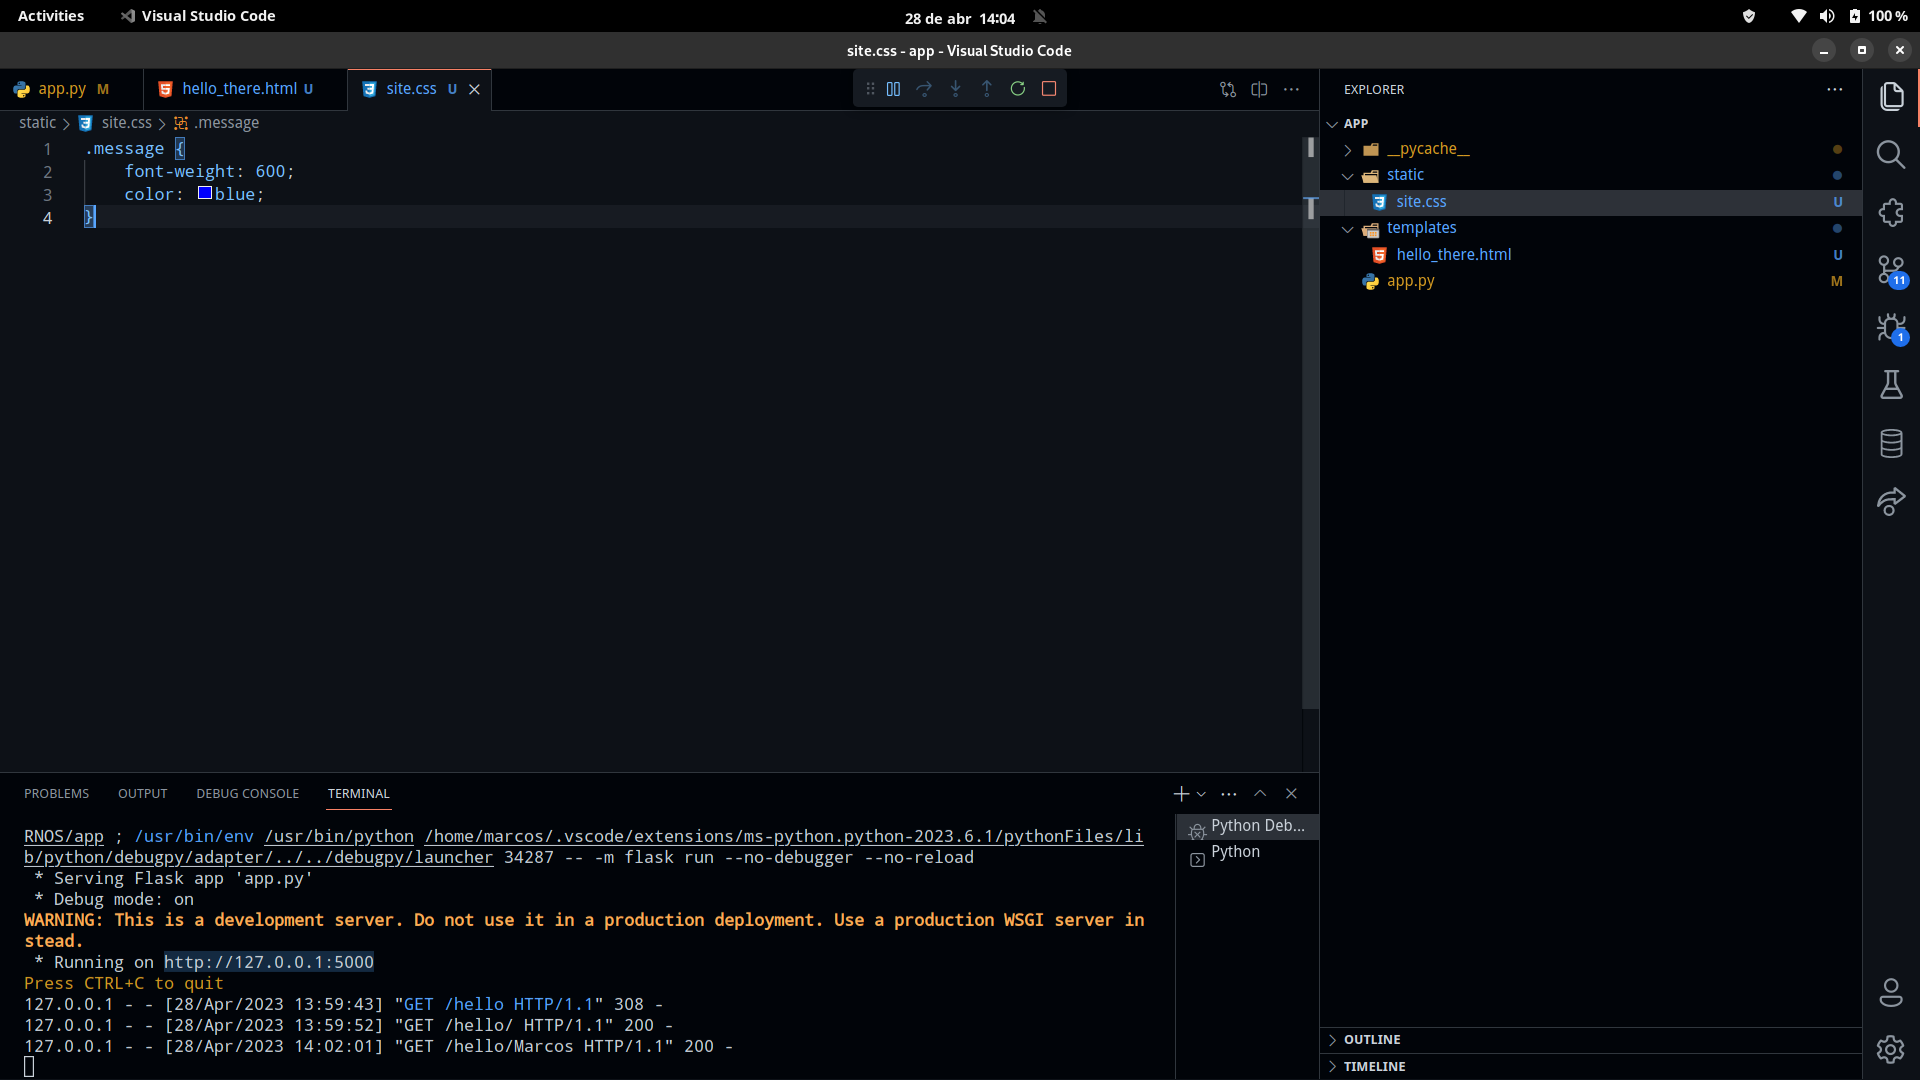
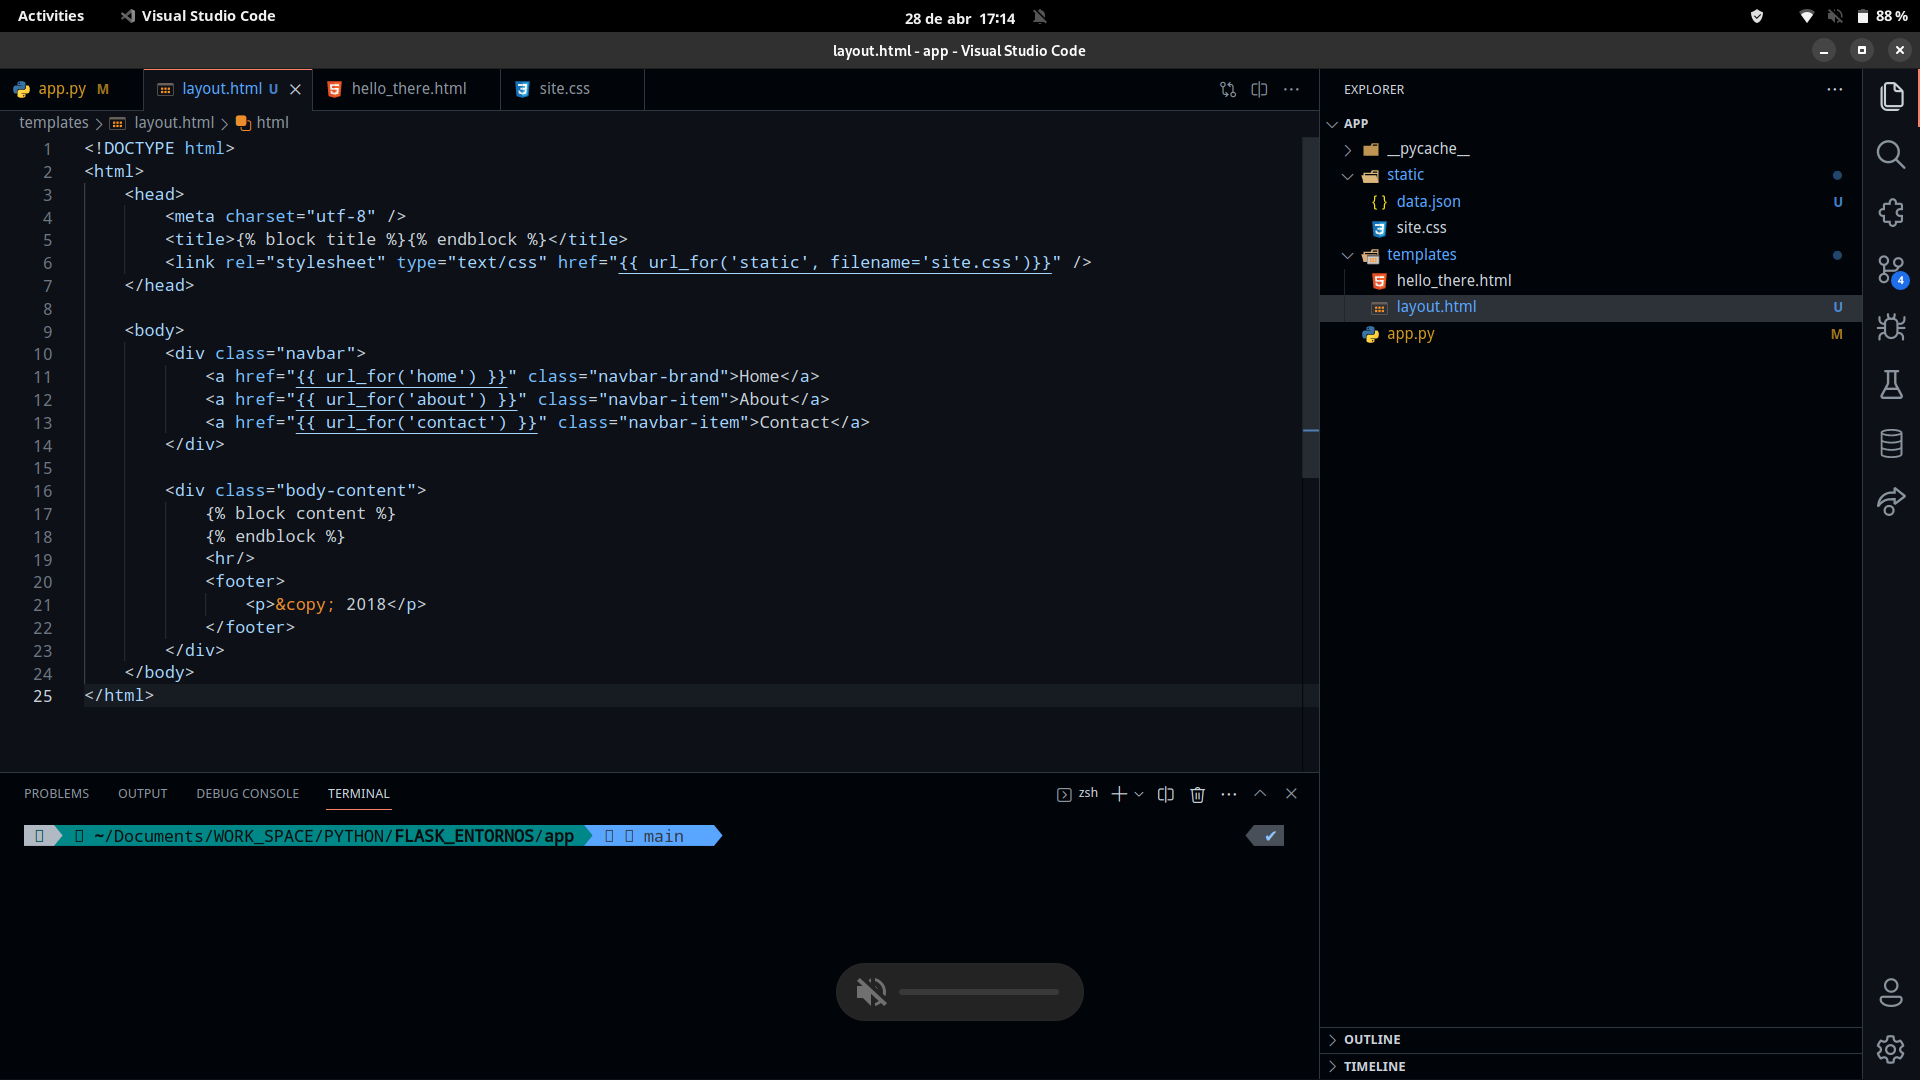
Fin

diff --git a/app/templates/layout.html b/app/templates/layout.html
@@ -1,0 +1,25 @@
+<!DOCTYPE html>
+<html>
+    <head>
+        <meta charset="utf-8" />
+        <title>{% block title %}{% endblock %}</title>
+        <link rel="stylesheet" type="text/css" href="{{ url_for('static', filename='site.css')}}" />
+    </head>
+
+    <body>
+        <div class="navbar">
+            <a href="{{ url_for('home') }}" class="navbar-brand">Home</a>
+            <a href="{{ url_for('about') }}" class="navbar-item">About</a>
+            <a href="{{ url_for('contact') }}" class="navbar-item">Contact</a>
+        </div>
+
+        <div class="body-content">
+            {% block content %}
+            {% endblock %}
+            <hr/>
+            <footer>
+                <p>&copy; 2018</p>
+            </footer>
+        </div>
+    </body>
+</html>

diff --git a/app/static/site.css b/app/static/site.css
@@ -2,3 +2,30 @@
     font-weight: 600;
     color: blue;
 }
+.navbar {
+    background-color: lightslategray;
+    font-size: 1em;
+    font-family: 'Trebuchet MS', 'Lucida Sans Unicode', 'Lucida Grande', 'Lucida Sans', Arial, sans-serif;
+    color: white;
+    padding: 8px 5px 8px 5px;
+}
+
+.navbar a {
+    text-decoration: none;
+    color: inherit;
+}
+
+.navbar-brand {
+    font-size: 1.2em;
+    font-weight: 600;
+}
+
+.navbar-item {
+    font-variant: small-caps;
+    margin-left: 30px;
+}
+
+.body-content {
+    padding: 5px;
+    font-family:'Segoe UI', Tahoma, Geneva, Verdana, sans-serif;
+}

diff --git a/app/templates/home.html b/app/templates/home.html
@@ -1,0 +1,6 @@
+{% extends "layout.html" %}
+{% block title %}
+<p>Home page for the Visual Studio Code Flask tutorial.</p>
+{% endblock %}
+{% block content %}
+{% endblock %}

diff --git a/app/app.py b/app/app.py
@@ -8,7 +8,7 @@ app = Flask(__name__)
 
 @app.route("/")
 def home():
-    return "Hello, Flask!"
+    return render_template("home.html")
 
 
 @app.route("/hello/")
@@ -19,3 +19,17 @@ def hello_there(name = None):
         name=name,
         date=datetime.now()
     )
+
+@app.route("/api/data")
+def get_data():
+    return app.send_static_file("data.json")
+
+# New functions
+@app.route("/about/")
+def about():
+    return render_template("about.html")
+
+@app.route("/contact/")
+def contact():
+    return render_template("contact.html")
+

diff --git a/README.md b/README.md
@@ -2,13 +2,13 @@
 En el siguiente repositirio proporciono el codigo resultante de seguir fielmente el tutorial de flask facilitado  por Micrsoft en la web [tutorial-flask](https://code.visualstudio.com/docs/python/tutorial-flask) ademas como recurso para facilitar mi compresion acerca del tema he recurrido a un video del que os dejo el enlace [flask-video](https://www.youtube.com/watch?v=-1DmVCPB6H8)
 
 
-### Prepar entorno de trabajo:
+### Preparar entorno de trabajo:
 #### Pasos:
 1. Debemos crear un entorno , para ello debemos emplear env o conda. En este caso hemos empleado env.
-2. Debemos instalar los recursos necesarios para poder realizar el tutorial, pero el mas importante sera Flask .
-3. Debemos creaar una carpeta llamada app , sitio donde colocaremos nuestra app.
+2. Debemos instalar los recursos necesarios para poder realizar el tutorial, pero el más importante será Flask .
+3. Debemos crear una carpeta llamada app , sitio donde colocaremos nuestra app.
 4. Dentro de esta carpeta crearemos un archivo de igual nombre que el directorio.
-5. Tambien debemos crear un directorio cuyo nombre sera ```templates``` donde el motor generador de plantillas ```Jinja2``` podra encontrar las plantillas web cuya extension sea .html empleadas en nuestro proyecto.
+5. También debemos crear un directorio cuyo nombre será ```templates``` donde el motor generador de plantillas ```Jinja2``` podrá encontrar las plantillas web cuya extensión sea .html empleadas en nuestro proyecto.
 
 ### Asi deberia quedar inicialmente estructurado :
 
@@ -25,20 +25,20 @@ app = Flask(__name__)
 
 @app.route('/')
 def start ():
-    return 'Hola Mundo'
+   return 'Hola Mundo'
 
 ```
 
-Comenzamos importanto la clase Flask y la instanciamos en la variable app.
+Comenzamos importando la clase Flask y la instalamos en la variable app.
 
-Luego empleando el decorador ```@app.route('/')``` indicamos que esta sera nuestra ruta raiz y seguido creamos la vista que se ejecutara inicialmente.
+Luego empleando el decorador ```@app.route('/')``` indicamos que esta será nuestra ruta raíz y seguido creamos la vista que se ejecutará inicialmente.
 
-Es de suma importancia saber que todas las vistas serar declaradas como una funcion en python y deben tener un retorno,en este caso nuestro  hola mundo.
+Es de suma importancia saber que todas las vistas serán declaradas como una función en python y deben tener un retorno,en este caso nuestro  hola mundo.
 
 ```
 Para poder correr nuestra app, podemos emplear dos formas :
 1. python -m flask run
-2. La segunda opcion la veremos a continuacion
+2. La segunda opción la veremos a continuación
 ```
 
 ![](img_proceso/2.png)
@@ -47,7 +47,7 @@ Para poder correr nuestra app, podemos emplear dos formas :
 
 Podemos observar que ya tenemos nuestro hola mundo.
 
-### Rutas personalizadas 
+### Rutas personalizadas
 
 Con rutas personalizadas nos estamos refiriendo a que podemos modificar nuestras url,por ejemplo:
 
@@ -55,18 +55,18 @@ Con rutas personalizadas nos estamos refiriendo a que podemos modificar nuestras
 
 @app.route("/hello/<name>")
 def hello_there(name):
-    now = datetime.now()
-    formatted_now = now.strftime("%A, %d %B, %Y at %X")
+   now = datetime.now()
+   formatted_now = now.strftime("%A, %d %B, %Y at %X")
 
-    match_object = re.match("[a-zA-Z]+", name)
+   match_object = re.match("[a-zA-Z]+", name)
 
-    if match_object:
-        clean_name = match_object.group(0)
-    else:
-        clean_name = "Friend"
+   if match_object:
+       clean_name = match_object.group(0)
+   else:
+       clean_name = "Friend"
 
-    content = "Hello there, " + clean_name + "! It's " + formatted_now
-    return content
+   content = "Hello there, " + clean_name + "! It's " + formatted_now
+   return content
 ```
 Si ahora en nuestro navegador escribimos ``` http://127.0.0.1:5000/hello/Marcos```
 
@@ -75,57 +75,57 @@ Tendremos como resultado lo siguiente :
 Hello there, Marcos! It's Friday, 28 April, 2023 at 13:13:52
 ```
 
-Por tanto de esas forma podemos ver como podemo recibir variables via url.
+Por tanto de esta forma podemos ver cómo puedes recibir variables via url.
 
-En el momento que definimos nuestra ruta personalizada debemos tener en cuenta ```@app.route("/hello/<name>")``` que las variables que recibira la vista deben ir entre simbolos de mayor y menor que .
+En el momento que definimos nuestra ruta personalizada debemos tener en cuenta ```@app.route("/hello/<name>")``` que las variables que recibirá la vista deben ir entre símbolos de mayor y menor que .
 
-### Debug 
+### Debug
 
 Colocamos dos breakpoints de la siguiente forma:
 
 ![](img_proceso/4.png)
 
-Luego creamos el archivo de configuracion json
+Luego creamos el archivo de configuración json
 
 ![](img_proceso/5.png)
 
-Luego presionamos  la combinacion de teclas ctrl + f5 para entrar en modo debug de la siguiente forma 
+Luego presionamos  la combinación de teclas ctrl + f5 para entrar en modo debug de la siguiente forma
 
 ![](img_proceso/6.png)
 
-De esta  forma podemos debuguear nuestro codigo como si fuera un simple archivo python
+De esta  forma podemos debuguear nuestro código como si fuera un simple archivo python
 
 ![](img_proceso/7.png)
 ![](img_proceso/8.png)
 
 
 # Templates y Jinja2
-Dentro de nuestra carpeta app al inicio habiamos creado una carpeta con el nombre templates , aqui crearemos un archivo html con el nombre hello_there con el codigo siguiente:
+Dentro de nuestra carpeta app al inicio habíamos creado una carpeta con el nombre templates , aquí crearemos un archivo html con el nombre hello there con el código siguiente:
 
 ```html
 
 <!DOCTYPE html>
 <html>
-    <head>
-        <meta charset="utf-8" />
-        <title>Hello, Flask</title>
-    </head>
-    <body>
-        {%if name %}
-            <strong>Hello there, {{ name }}!</strong> It's {{ date.strftime("%A, %d %B, %Y at %X") }}.
-        {% else %}
-            What's your name? Provide it after /hello/ in the URL.
-        {% endif %}
-    </body>
+   <head>
+       <meta charset="utf-8" />
+       <title>Hello, Flask</title>
+   </head>
+   <body>
+       {%if name %}
+           <strong>Hello there, {{ name }}!</strong> It's {{ date.strftime("%A, %d %B, %Y at %X") }}.
+       {% else %}
+           What's your name? Provide it after /hello/ in the URL.
+       {% endif %}
+   </body>
 </html>
 
 
 ```
 
-En esta pantilla podemos ver que hay cosas que nunca habiamos empleado en un html comun , como es el caso de los modificadores de posicion y control de flujo, los modificadores de posicion se indican mediante el uso de {{variable }} y dentro van las variables y para realizar un procedimiento haciendo uso del lenguaje de programacion de python emplearemos {% palabras reservadas %}
+En esta pantalla podemos ver que hay cosas que nunca habíamos empleado en un html común , como es el caso de los modificadores de posición y control de flujo, los modificadores de posición se indican mediante el uso de {{variable }} y dentro van las variables y para realizar un procedimiento haciendo uso del lenguaje de programación de python emplearemos {% palabras reservadas %}
 
 
-Para poder mostrar como salida por el navegador nuestro archivo html con las varibles integradas podemos hacer uso de render_templates , funcionalidad que debemos previamente importar de flask .
+Para poder mostrar como salida por el navegador nuestro archivo html con las variables integradas podemos hacer uso de render templates , funcionalidad que debemos previamente importar de flask .
 
 
 
@@ -134,31 +134,76 @@ Para poder mostrar como salida por el navegador nuestro archivo html con las var
 @app.route("/hello/")
 @app.route("/hello/<name>")
 def hello_there(name = None):
-    return render_template(
-        "hello_there.html",
-        name=name,
-        date=datetime.now()
-    )
+   return render_template(
+       "hello_there.html",
+       name=name,
+       date=datetime.now()
+   )
 ```
 
-En el codigo anterior lo que hacemos es recibir un parametro atraves de la url y haciendo uso de render templates , debemos pasar como primer parametro el nombre de nuestro html que como norma general tiene el nombre de la funcion a la que pertenece, seguido de las variables que deberan ser sustituidas donde hemos colocado los modificadores de posicion.
+En el código anterior lo que hacemos es recibir un parámetro a través de la url y haciendo uso de render templates , debemos pasar como primer parámetro el nombre de nuestro html que como norma general tiene el nombre de la función a la que pertenece, seguido de las variables que deberán ser sustituidas donde hemos colocado los modificadores de posición.
 
 ![](img_proceso/9.png)
 
 
-Podriamos llamar a nuestra funcion con parametro o sin ningun parametro
+Podríamos llamar a nuestra función con parámetro o sin ningún parámetro
 
-### Sin parametros : 
+### Sin parametros :
 
 ![](img_proceso/10.png)
 
 
-### Con el parametro : 
+### Con el parametro :
 
 ![](img_proceso/11.png)
 
 
-# Archivos estaticos como css y js. Carpeta static:
+# Archivos estáticos como css y js. Carpeta static:
+
+Dentro de la carpeta app creamos otra carpeta que por buena práctica debe llamarse ```static``` aquí almacenaremos archivos como css, js , etc.
+
+Dentro de nuestro archivo  css estableceremos el estilo que creamos  conveniente, también modificaremos nuestro archivo html y nos creamos otro archivo html llamado layout que es donde estableceremos un  formato que luego gracias a flask podemos heredar en nuestras siguientes plantillas.
+
+### Realizando comprobaciones ...
+
+![](img_proceso/13.png)
+![](img_proceso/14.png)
+![](img_proceso/15.png)
+![](img_proceso/16.png)
 
 
+### Generando snippet para la fácil creación de nuevas plantillas
+
+![](img_proceso/17.png)
+![](img_proceso/18.png)
+
+## Luego nos creamos tres html más para poder generar un menú horizontal:
+
+### Quedara asi:
+
+![](img_proceso/19.png)
+
+
+### Por último modificamos la vista home y agregamos dos más:
+
+```python
+   # Replace the existing home function with the one below
+   @app.route("/")
+   def home():
+       return render_template("home.html")
+
+   # New functions
+   @app.route("/about/")
+   def about():
+       return render_template("about.html")
+
+   @app.route("/contact/")
+   def contact():
+       return render_template("contact.html")
+
+```
+
+# Ejecutamos la información :
+
+![](img_proceso/20.png)
 
